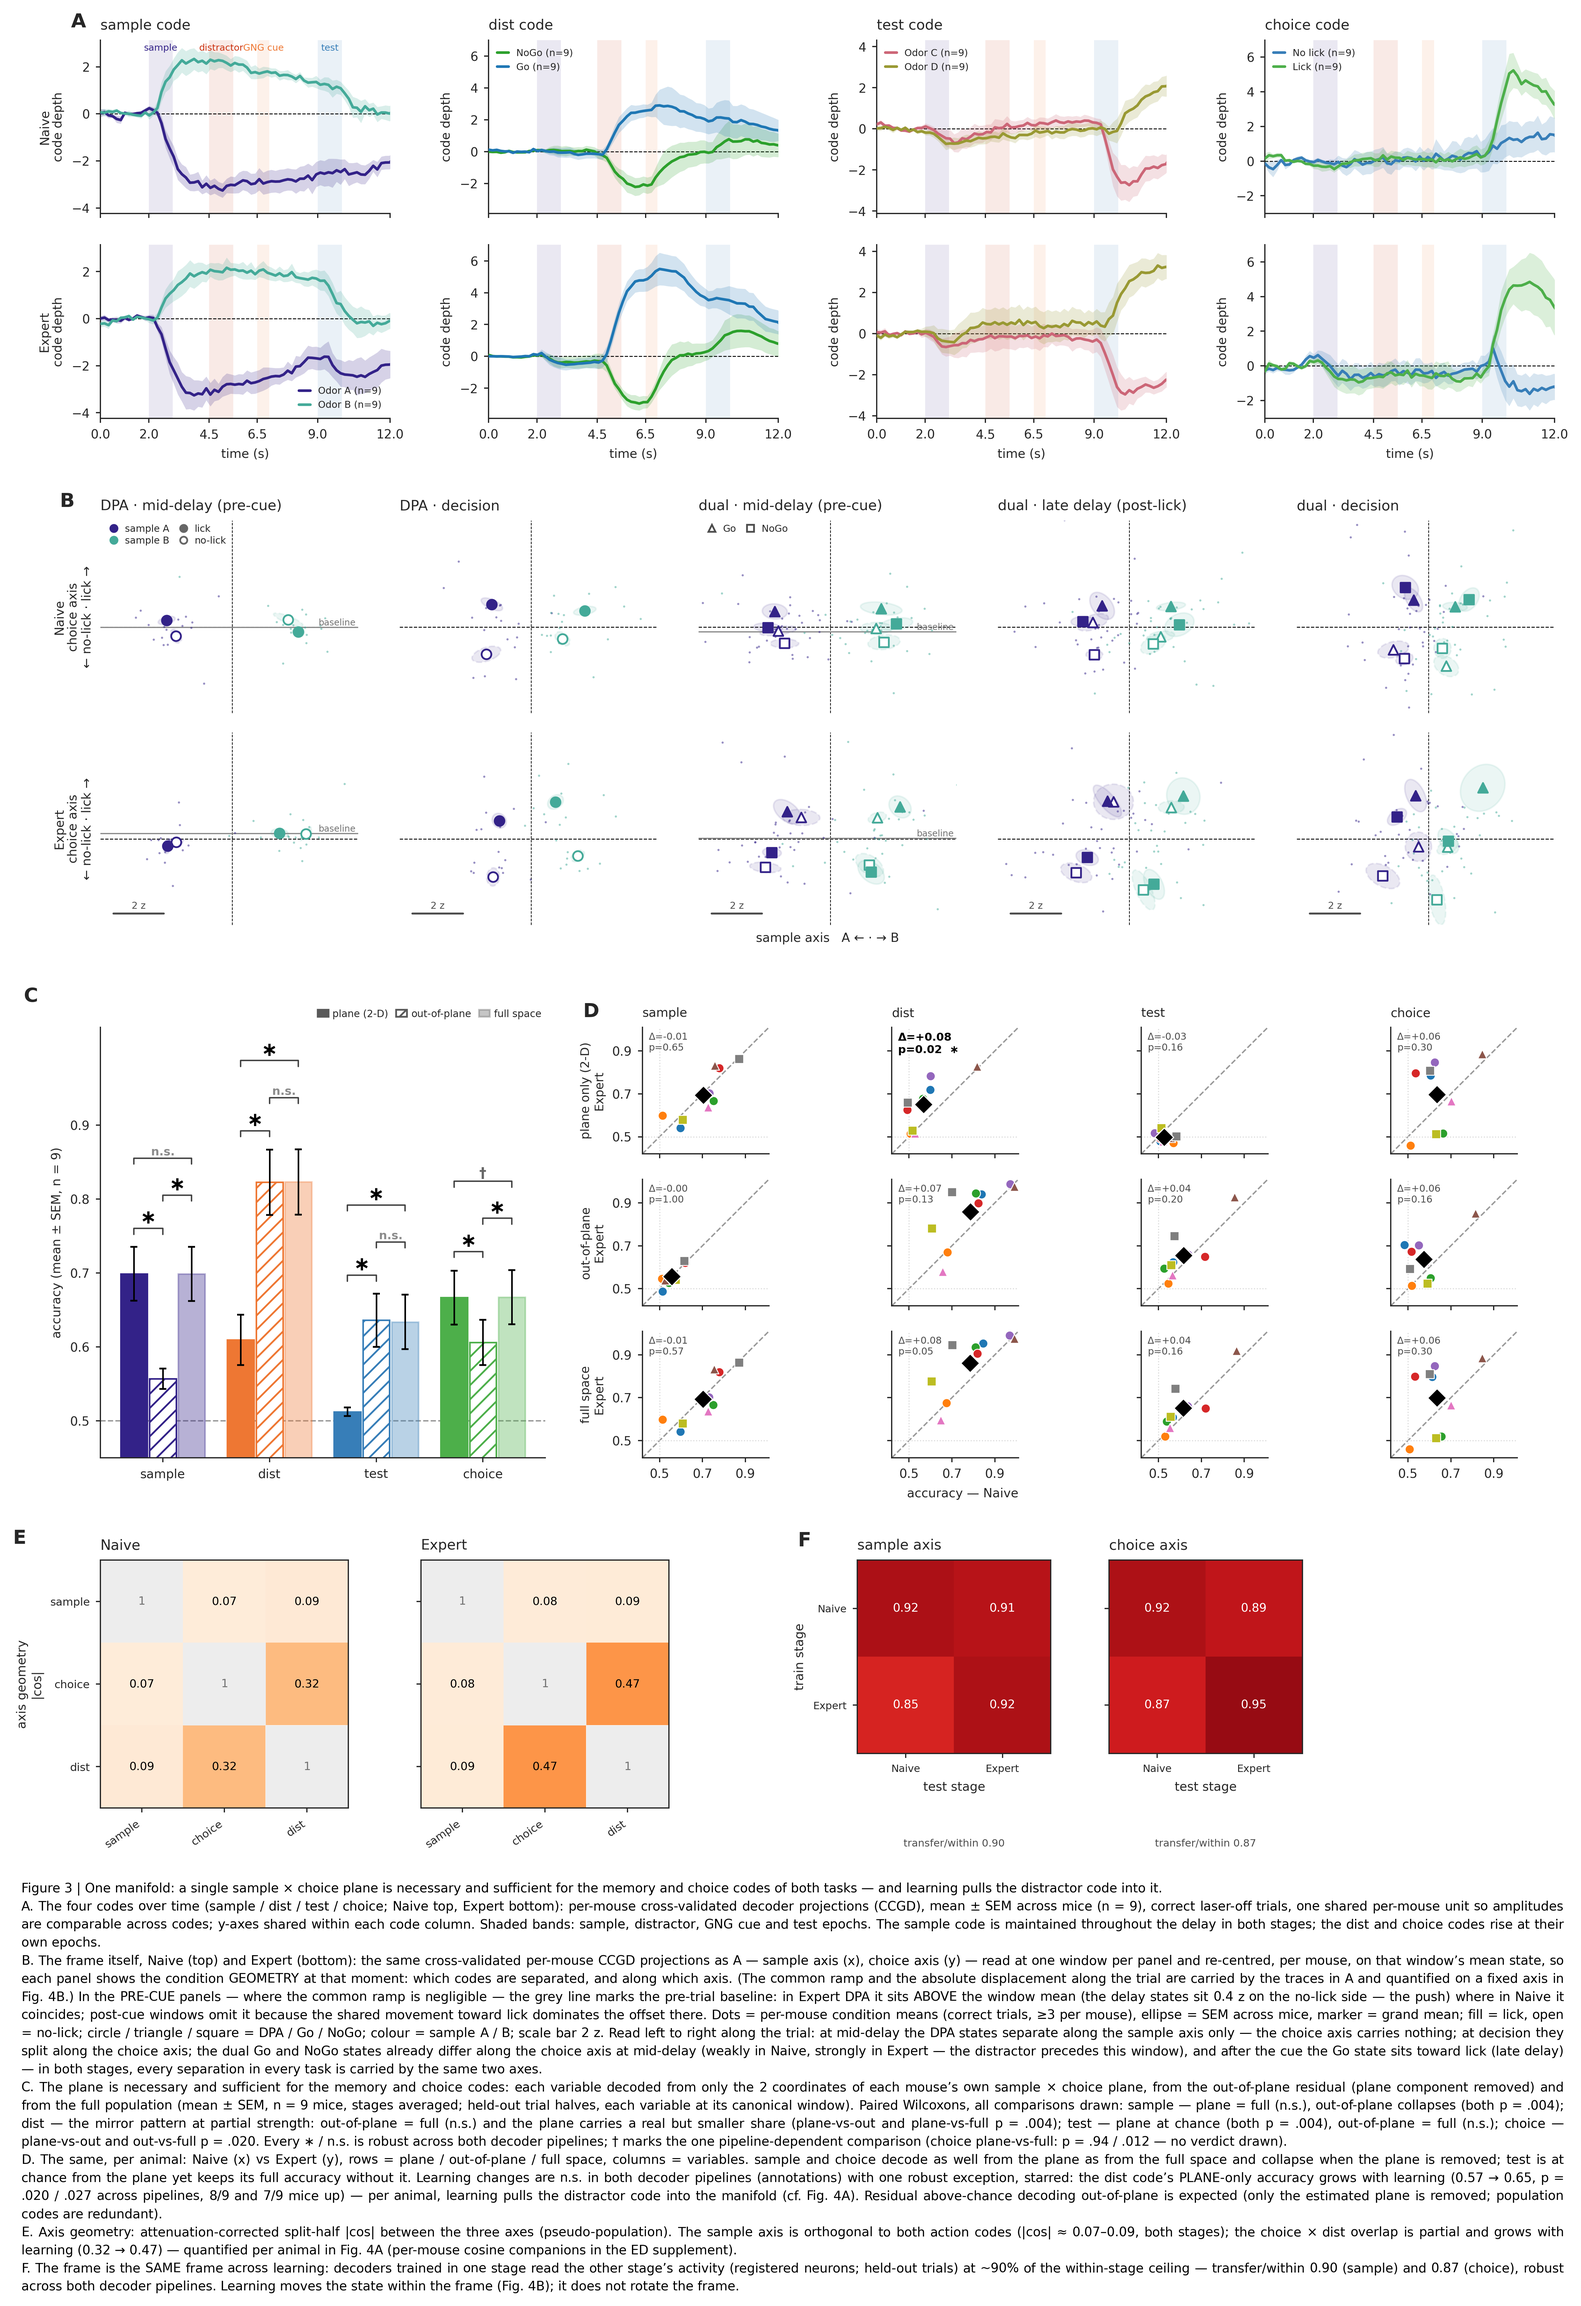
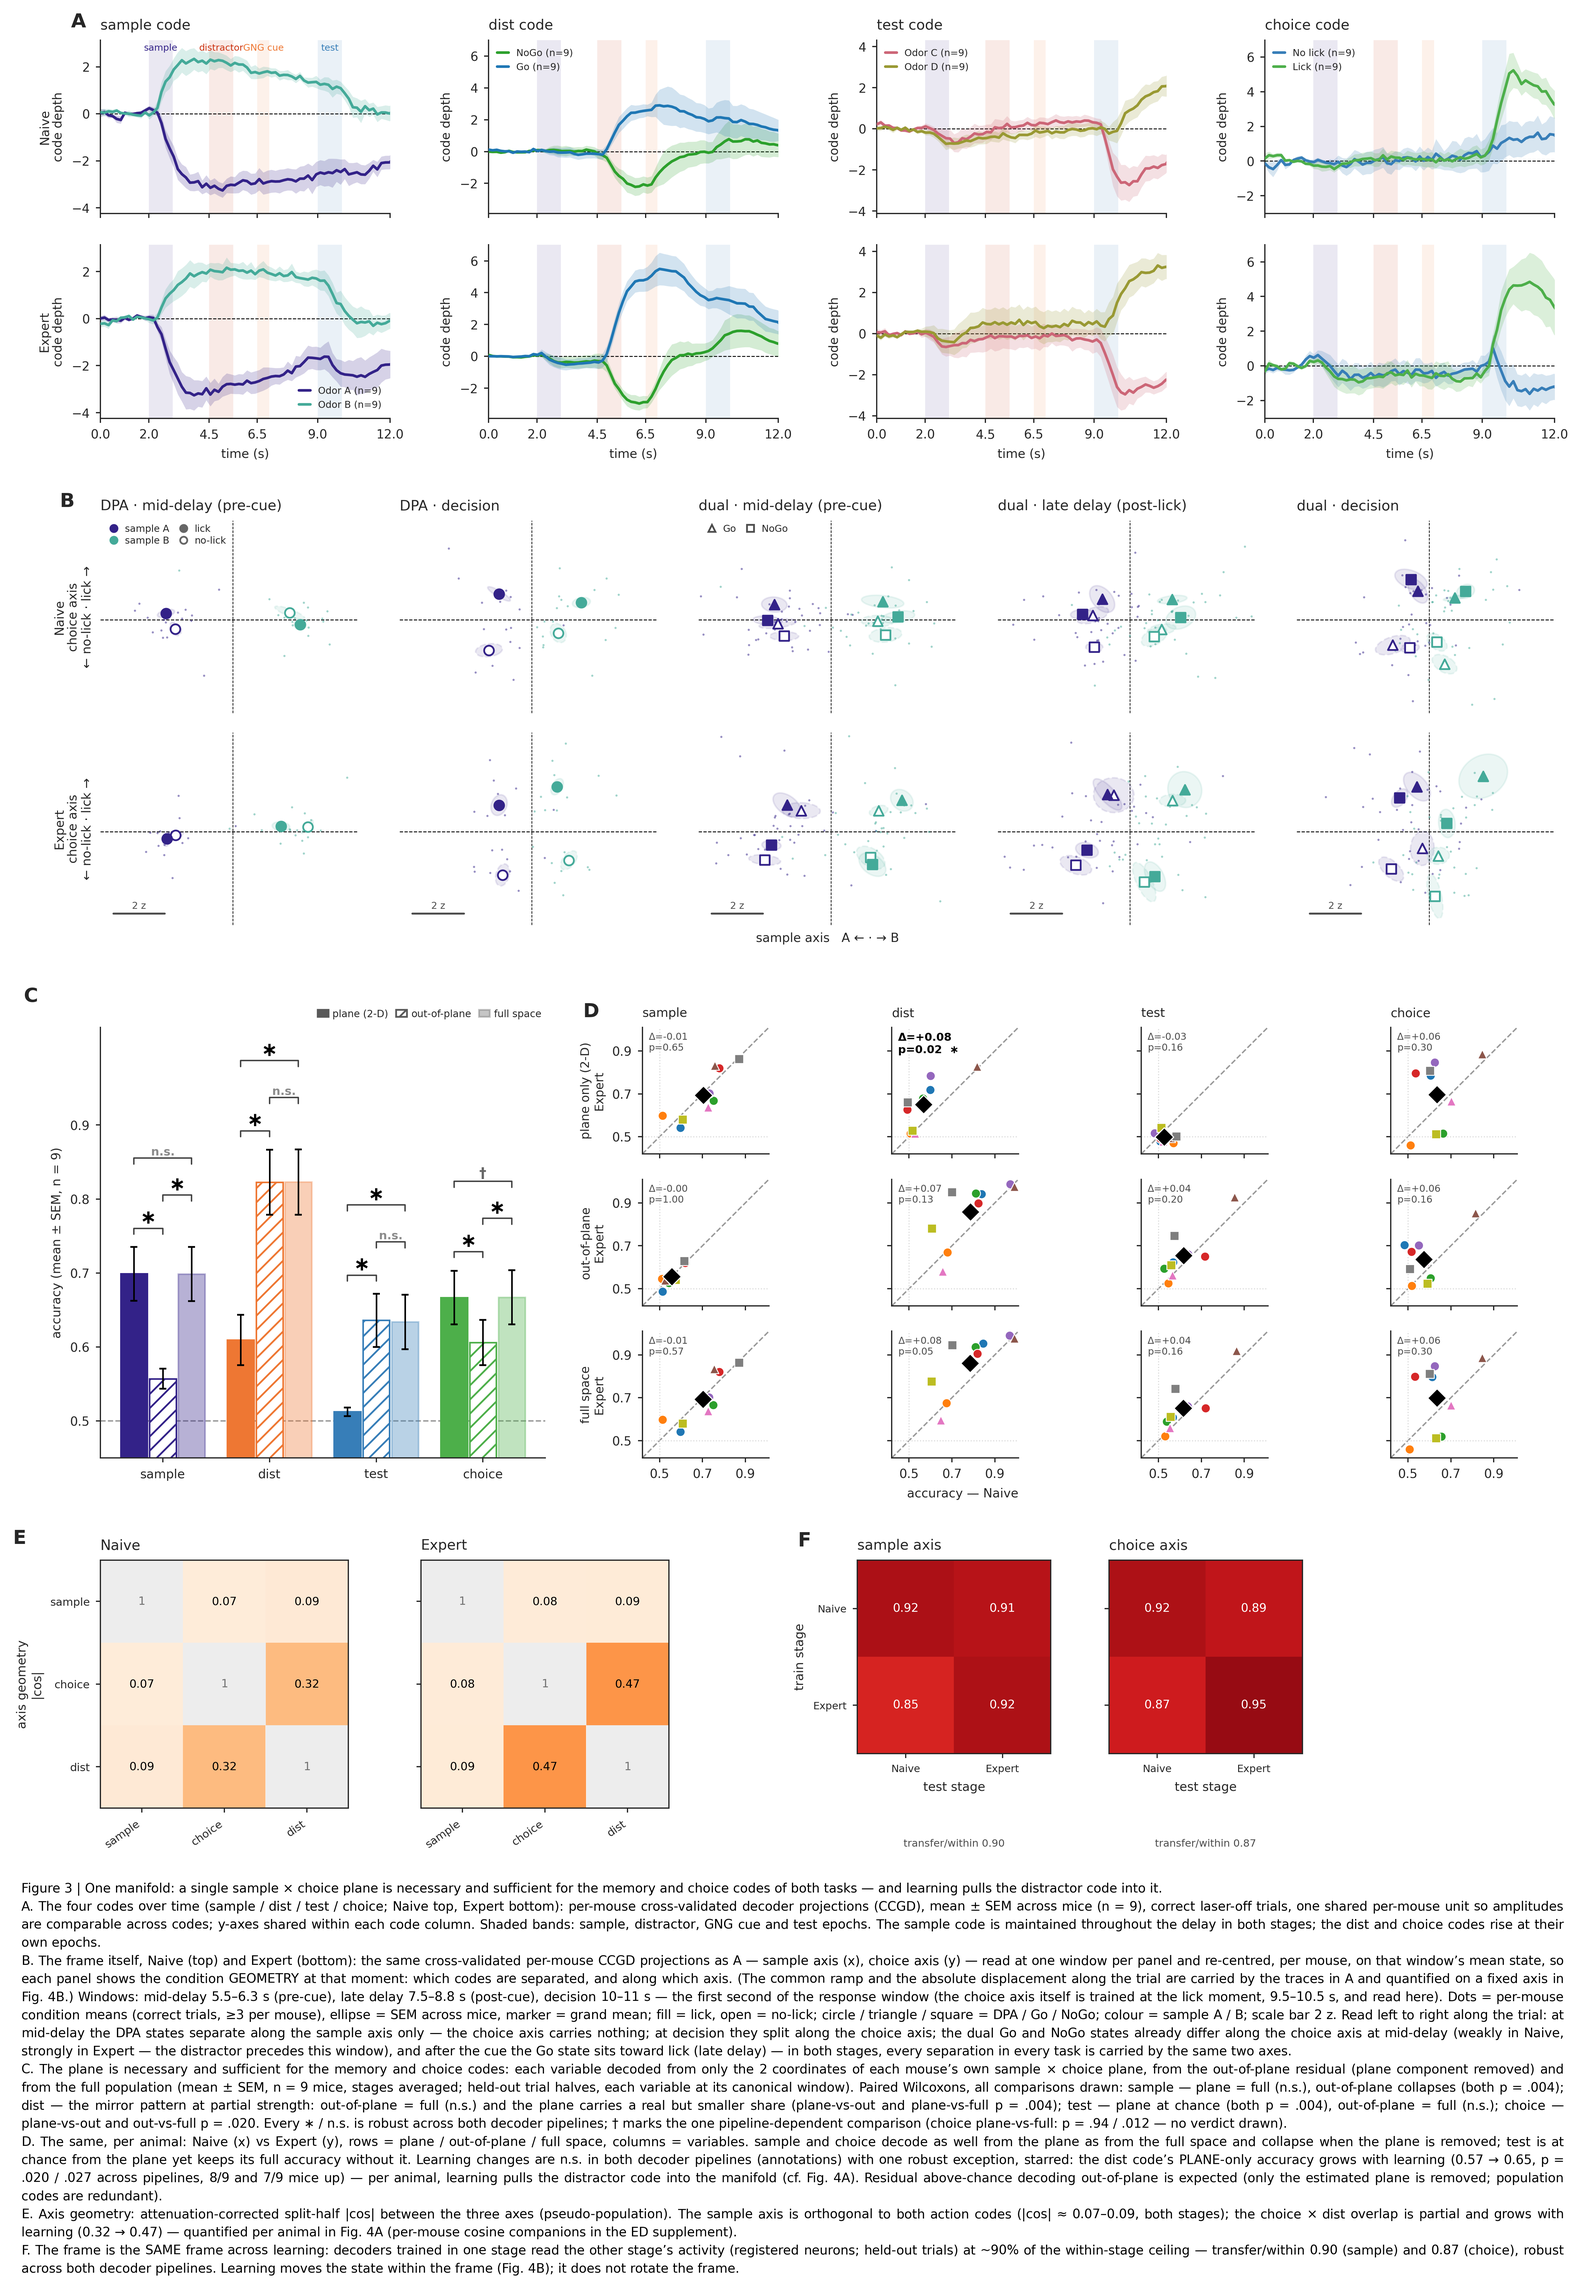
Fig 3 storyboard: drop baseline lines; decision read window -> 60-66 (10-11 s)
Baseline lines removed (the push story stays with panel A and Fig 4B). The decision
column now reads the projections at 10.0-11.0 s - the first second of the response
window - instead of the 9.5-10.5 s lick moment; the choice axis training window is
unchanged (57-62). A window scan showed the later read grows the lick split from
+4.7 to +6.0 z (dual Expert; DPA likewise) while the learned Go/NoGo cue-history
superposition shrinks from +3.2 to +2.5 z, so the Expert dual decision panel bands
cleanly by choice again. All three FRAME_STATES caches rebuilt; caption defines the
three read windows.

Claude-Session: https://claude.ai/code/session_01U5815xHXRaRQ7YCxMTgCsM

diff --git a/pca/fig_manifold_main.py b/pca/fig_manifold_main.py
@@ -136,8 +136,8 @@ def _centered(ENT):
         pts = np.array([p - off[mo] for mo, p in zip(mice, P) if mo in off])
         if len(pts) >= 3:
             out[cd] = pts
-    # the grand-mean removed offset: where this window's mean state sits relative to baseline —
-    # the pre-cue panels draw its inverse as a grey "baseline" line (the push made visible)
+    # the grand-mean removed offset (where this window's mean state sits relative to baseline)
+    # is returned for the console print only — baseline lines were tried and removed (user)
     return out, np.mean(list(off.values()), 0)
 
 
@@ -165,16 +165,6 @@ def panel_a(fig, gsA):
             # crosshair = this window's cross-condition mean state (per mouse)
             ax.axhline(0, ls='--', color='k', lw=0.5, zorder=0)
             ax.axvline(0, ls='--', color='k', lw=0.4, zorder=0)
-            if wn == 'md':
-                # PRE-CUE panels only: the pre-trial baseline (grey) — here the common ramp is
-                # negligible, so baseline-vs-crosshair IS the mean displacement (the Expert DPA
-                # no-lick push shows as the baseline sitting ABOVE the window mean). Post-cue
-                # windows omit it: the shared lick ramp dominates the offset there.
-                bl = -OFF[(stage, sname, wn)][1]
-                ax.axhline(bl, ls='-', color='0.55', lw=0.7, zorder=0)
-                if j in (0, 2):
-                    ax.text(0.99, bl, 'baseline', ha='right', va='bottom', fontsize=5,
-                            color='0.45', transform=ax.get_yaxis_transform())
             for cd, P in ENT.items():
                 col = SAMPC[int(cd[1])]; licks = cd[2]
                 ax.scatter(P[:, 0], P[:, 1], s=6, marker='.', color=col, lw=0, alpha=0.5, zorder=1)
@@ -577,11 +567,11 @@ CAP_PARAS = [
     'and re-centred, per mouse, on that window’s mean state, so each panel shows the condition '
     'GEOMETRY at that moment: which codes are separated, and along which axis. (The common ramp '
     'and the absolute displacement along the trial are carried by the traces in A and quantified '
-    'on a fixed axis in Fig. 4B.) In the PRE-CUE panels — where the common ramp is negligible — '
-    'the grey line marks the pre-trial baseline: in Expert DPA it sits ABOVE the window mean '
-    '(the delay states sit 0.4 z on the no-lick side — the push) where in Naive it coincides; '
-    'post-cue windows omit it because the shared movement toward lick dominates the offset '
-    'there. Dots = per-mouse condition means (correct trials, ≥3 per mouse), ellipse = SEM '
+    'on a fixed axis in Fig. 4B.) Windows: mid-delay 5.5–6.3 s (pre-cue), late delay 7.5–8.8 s '
+    '(post-cue), decision 10–11 s — the first second of the response window (the choice axis '
+    'itself is trained at the lick moment, 9.5–10.5 s, and read here). Dots = per-mouse '
+    'condition means (correct trials, ≥3 per '
+    'mouse), ellipse = SEM '
     'across mice, marker = grand mean; fill = lick, open = no-lick; '
     'circle / triangle / square = DPA / Go / NoGo; colour = sample A / B; scale bar 2 z. Read '
     'left to right along the trial: at mid-delay the DPA states separate along the sample axis '

diff --git a/pca/exp_frame_states.py b/pca/exp_frame_states.py
@@ -43,7 +43,11 @@ assert len(YS) == len(YL), f'{len(YS)} vs {len(YL)} rows'
 
 WINS = {'md': np.asarray(MP.options['bins_MD']),           # 33-38 mid-delay (pre-cue)
         'delay': np.asarray(MP.BINS_LATE),                 # 45-53 late delay (post-cue/lick)
-        'decision': np.arange(57, 63)}                     # 57-62 incl., DPA action window
+        'decision': np.arange(60, 67)}                     # 60-66 incl. = 10.0-11.0 s, first
+# second of the RESPONSE window (read window moved from the 57-62 lick moment 2026-08-31: a
+# window scan showed the lick split grows +4.7->+6.0 (dual Expert) and +4.6->+6.0 (DPA Expert)
+# while the Go/NoGo cue-history superposition shrinks +3.2->+2.5; the choice AXIS itself is
+# still the canonical action axis trained at 57-62 — only the read moment moved).
 B_SPECS = [('DPA', 'md'), ('DPA', 'decision'),
            ('dual', 'md'), ('dual', 'delay'), ('dual', 'decision')]
 

diff --git a/docs/pca/dimensionality.md b/docs/pca/dimensionality.md
@@ -414,3 +414,16 @@ summary, n=9) is standard — CI-component removal is the dPCA/Mante/Panichello 
 the nested-data unit). Caveats to keep disclosed: balanced (unweighted-cell) common-mean
 estimation with occasional missing cells; centring forfeits absolute claims (A + Fig 4B carry
 them).
+
+### 2026-08-31 (amendments to the polish block above, user)
+- **Baseline lines REMOVED** from the pre-cue panels ("what is the point... remove them") — the
+  push story stays with panel A + Fig 4B; the removed offsets still print as "mean-vs-BL".
+- **Decision READ window moved 57–62 → 60–66** (10.0–11.0 s, the first second of the response
+  window; the choice AXIS is still trained at the 57–62 lick moment). Motivated by "dual Expert
+  decision is bad": at 57–62 the learned Go/NoGo cue-history (+3.2 z) rivals the lick split
+  (+4.7) on the same axis and the 8 conditions interleave. A window scan (57–62/57–68/60–66/
+  63–69/66–72/60–72) picked 60–66: lick split +4.7→+6.0 (dual E) and +4.6→+6.0 (DPA E),
+  Go/NoGo superposition +3.2→+2.5, at a small sample-sep cost (2.0→1.7). The JawsM12 Go-B-lick
+  outlier (+25 z raw, 15 trials — real per-mouse lick-amplitude heterogeneity, the known
+  0.1–43× tensor scale spread) is window-invariant; SEM ellipses absorb it. All THREE caches
+  rebuilt (canonical/_pca20/_antact); caption B now defines all three windows.
